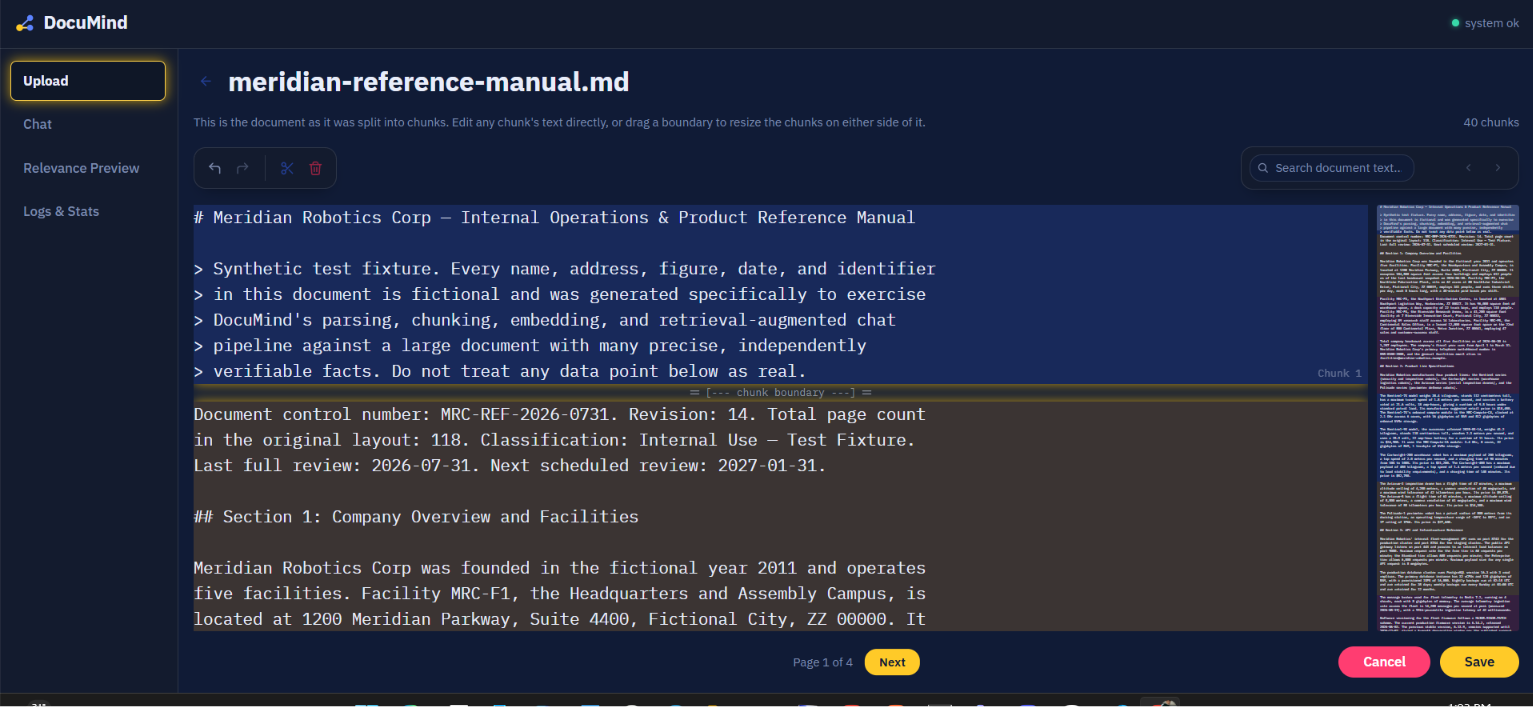
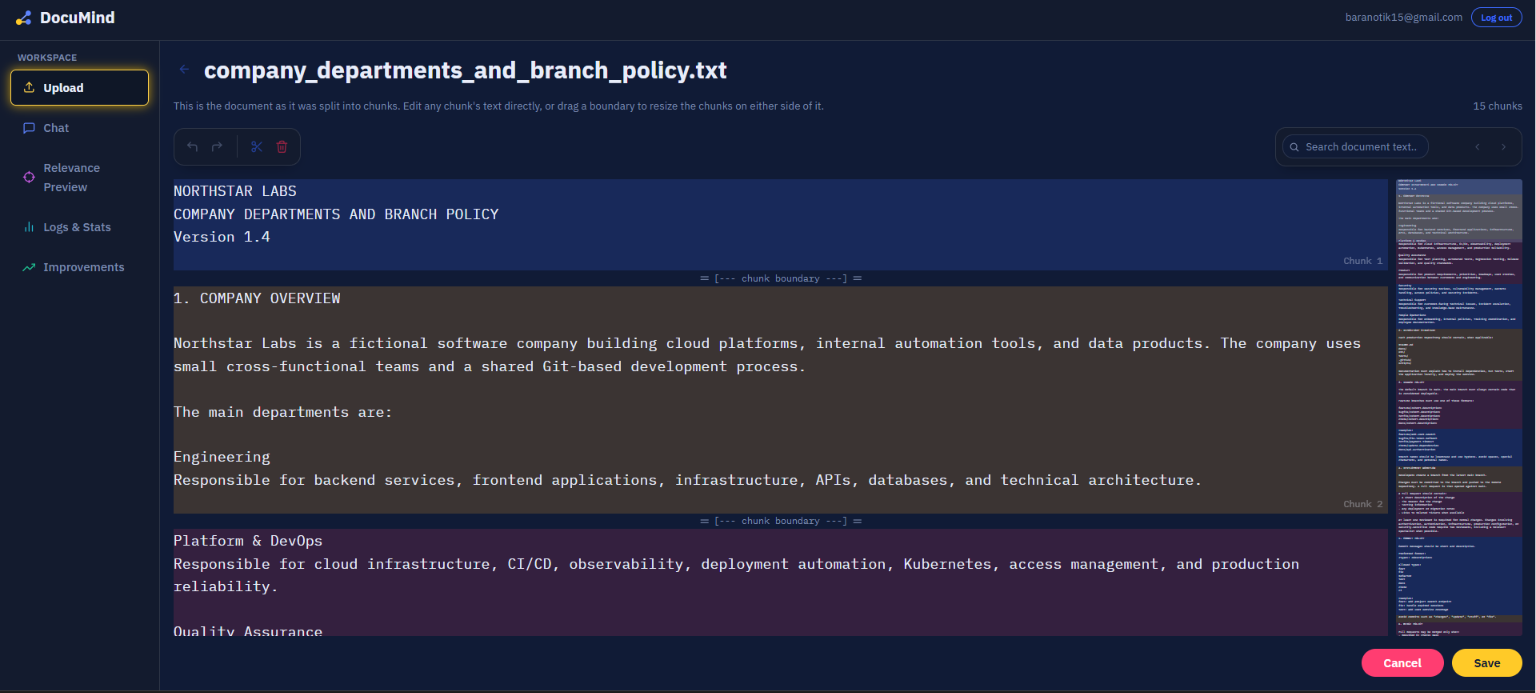
docs(readme): document Improvements/Analysis feature, refresh screenshots
Adds a Features section, documents the Improvements page's dislike/
no-answer tracking and AI-powered gap-analysis + conflict-detection
pipeline (analysis_reports, previously undocumented), lists every
/chat/* and /analysis/* endpoint in the API table, and adds the
analysis/ backend module + Improvements frontend page to the project
structure tree - mirrored in both README.md and README.ru.md.

Also replaces every screenshot under docs/images/ with current ones
(new sidebar, new pages) and adds two new ones for the Improvements
page's Lists and AI Analysis tabs.

diff --git a/README.ru.md b/README.ru.md
@@ -37,6 +37,7 @@
 статистику использования и 3D-визуализацию эмбеддингов чанков.
 
 <p align="center">
+  <a href="#-возможности">Возможности</a> ·
   <a href="#-превью">Превью</a> ·
   <a href="#-стек-технологий">Стек технологий</a> ·
   <a href="#-архитектура">Архитектура</a> ·
@@ -45,6 +46,19 @@
   <a href="#-структура-проекта">Структура проекта</a> ·
   <a href="#-быстрый-старт">Быстрый старт</a>
 </p>
+
+---
+
+<a id="-возможности"></a>
+
+## ✨ Возможности
+
+- **📥 Не просто хранилище, а конвейер** — закиньте PDF, DOCX или Markdown-файл, и он сам распарсится, разобьётся на чанки размером с абзац и заэмбеддится в фоне — без ручной предобработки.
+- **✂ Ничего не уходит в прод вслепую** — каждый чанк можно посмотреть, отредактировать и подвинуть его границу перетаскиванием — ещё до того, как он попадёт в векторный индекс. Плохая разбивка чинится раньше, чем станет плохим ответом.
+- **💬 Ответы на основе ваших же документов** — чат достаёт контекст через pgvector-поиск по тому, что вы реально загрузили, а не придумывает от себя.
+- **🎯 Видно, что найдётся, до того как довериться** — страница Relevance Preview прогоняет тот же самый шаг поиска, что и чат, и показывает, какие именно чанки найдутся на вопрос и с каким скором — без обращения к LLM.
+- **📊 Дашборд, который реально следит за пайплайном** — полный журнал событий, графики использования с привязкой к календарю, живая 3D-карта того, как чанки группируются в пространстве эмбеддингов, и расход OpenAI с точностью до токена.
+- **🔎 Превращает провалы в список задач** — вкладка Improvements незаметно копит каждый дизлайк и каждое "я не знаю" от бота, а затем AI-проход читает эту историю и пишет человеческим языком, чего не хватает в документации, плюс находит места, где два документа прямо противоречат друг другу.
 
 ---
 
@@ -63,6 +77,14 @@
 | Дашборд | Логи |
 |---|---|
 | ![Дашборд](docs/images/dashboard.png) | ![Страница логов](docs/images/logs.png) |
+
+| Просмотр релевантности чанков |
+|---|
+| ![Просмотр релевантности чанков](docs/images/relevance.png) |
+
+| Улучшения — Списки | Улучшения — AI-анализ |
+|---|---|
+| ![Страница улучшений, вкладка Списки](docs/images/improvements-list.png) | ![Страница улучшений, вкладка AI-анализ](docs/images/improvements-analysis.png) |
 
 ---
 
@@ -139,6 +161,16 @@ Celery не настроен. Результаты задач (переходы 
 поиска напрямую (страница "Relevance Preview") для проверки результатов
 семантического поиска без обращения к LLM.
 
+Каждый дизлайкнутый ответ чата и каждый ответ, где модель сообщает, что
+не нашла ответа в документации, отслеживаются (`chat_messages.disliked` /
+`no_answer_found`) и показываются на странице Improvements. Оттуда можно
+запустить анализ (`analysis_reports`, ставится в очередь через тот же
+Celery/Redis-путь, что и загрузка документов): накопленные "провальные"
+вопросы отправляются в LLM для **анализа пробелов документации** на
+понятном языке, а отдельным проходом запускается **поиск противоречий**
+по кандидатным парам чанков (обычно из двух разных документов), чтобы
+найти те, чьё содержимое реально друг другу противоречит.
+
 > **Заметка:** для доступа к админ-панели требуется логин — см. раздел
 > [Авторизация](#-авторизация) ниже. Реализовано через серверные сессии,
 > а не токены; аккаунты заводятся только через CLI-скрипт, публичной
@@ -212,6 +244,17 @@ docker compose exec backend python -m app.auth.cli revoke-user --email you@examp
 | `GET` | `/chat/messages` | История чата |
 | `POST` | `/chat/messages/{id}/dislike` | Переключить дизлайк на сообщении |
 | `POST` | `/chat/top-chunks` | Relevance preview — топ-5 подходящих чанков, без вызова LLM |
+| `GET` | `/chat/dislikes` | Все дизлайкнутые сообщения (query: `range`) |
+| `GET` | `/chat/no-answer-messages` | Все сообщения, где модель не нашла ответа (query: `range`) |
+| `POST` | `/chat/messages/{id}/dismiss-no-answer` | Снять флаг "нет ответа" с сообщения |
+
+**Analysis**
+| Метод | Путь | Описание |
+|---|---|---|
+| `POST` | `/analysis/reports` | Запустить анализ пробелов документации + поиск противоречий |
+| `GET` | `/analysis/reports` | Список всех запусков анализа |
+| `GET` | `/analysis/reports/{id}` | Полная детализация запуска (текст анализа, противоречия, число токенов) |
+| `DELETE` | `/analysis/reports/{id}` | Удалить запуск |
 
 **Dashboard**
 | Метод | Путь | Описание |
@@ -250,7 +293,10 @@ DocuMind/
 │   │   │                  его Celery-задача
 │   │   ├── chunks/        роутер чанков, разбиение, эмбеддинг, векторы,
 │   │   │                  поиск по схожести
-│   │   ├── chat/          сообщения, дизлайк, top-chunks, генерация ответа
+│   │   ├── chat/          сообщения, дизлайк + отслеживание "нет ответа",
+│   │   │                  top-chunks, генерация ответа
+│   │   ├── analysis/      AI-анализ пробелов документации + поиск
+│   │   │                  противоречий между документами, Celery-задача
 │   │   ├── dashboard_events/  CRUD таблицы dashboard_events
 │   │   ├── dashboard/     stats/chunk-graph/openai-spend (без своей
 │   │   │                  таблицы — вынесены отдельно от событий выше)
@@ -263,7 +309,8 @@ DocuMind/
 │   └── tests/
 ├── frontend/
 │   └── src/
-│       ├── pages/         Upload, Chunk review, Chat, Relevance, Dashboard
+│       ├── pages/         Upload, Chunk review, Chat, Relevance, Dashboard,
+│       │                  Improvements
 │       └── api/           ApiClient (реальный HTTP-клиент + офлайн-мок)
 ├── docker-compose.yml
 └── .github/workflows/     CI (backend-ci.yml, frontend-ci.yml)

diff --git a/README.md b/README.md
@@ -37,6 +37,7 @@ shows pipeline event logs, usage stats, and a 3D visualization of chunk
 embeddings.
 
 <p align="center">
+  <a href="#-features">Features</a> ·
   <a href="#-preview">Preview</a> ·
   <a href="#-tech-stack">Tech stack</a> ·
   <a href="#-architecture">Architecture</a> ·
@@ -45,6 +46,19 @@ embeddings.
   <a href="#-project-structure">Project structure</a> ·
   <a href="#-getting-started">Getting started</a>
 </p>
+
+---
+
+<a id="-features"></a>
+
+## ✨ Features
+
+- **📥 Ingest, don't just store** — drop in a PDF, DOCX, or Markdown file and it's parsed, split into paragraph-sized chunks, and embedded automatically in the background — no manual formatting step first.
+- **✂ Nothing ships blind** — every chunk is human-reviewable and editable, with draggable boundaries between chunks, before any of it ever reaches the vector index. A bad split gets fixed before it can become a bad answer.
+- **💬 Answers grounded in your own words** — chat retrieves context straight from the documents you uploaded via pgvector similarity search, not from the model's imagination.
+- **🎯 See the retrieval before you trust it** — the Relevance Preview page runs the same retrieval step the chat uses and shows exactly which chunks a question would pull back and how closely each one scores, no LLM call required.
+- **📊 A dashboard that actually watches the pipeline** — a full event log, calendar-aligned usage charts, a live 3D map of how your chunks cluster in embedding space, and OpenAI spend broken down to the token.
+- **🔎 Turns failure into a to-do list** — the Improvements tab quietly tracks every disliked reply and every "I don't know" the bot gives, then an AI-powered pass reads that history and writes a plain-language gap analysis of what your documentation is missing, plus flags places where two documents flatly contradict each other.
 
 ---
 
@@ -63,6 +77,14 @@ embeddings.
 | Dashboard | Logs |
 |---|---|
 | ![Dashboard](docs/images/dashboard.png) | ![Logs page](docs/images/logs.png) |
+
+| Chunk Relevance Preview |
+|---|
+| ![Chunk Relevance Preview page](docs/images/relevance.png) |
+
+| Improvements — Lists | Improvements — AI Analysis |
+|---|---|
+| ![Improvements page, Lists tab](docs/images/improvements-list.png) | ![Improvements page, Analysis tab](docs/images/improvements-analysis.png) |
 
 ---
 
@@ -136,6 +158,16 @@ organization-level spend/token usage panel.
 A `getTopMatchingChunks`/`top-chunks` endpoint exposes the same retrieval
 step directly (a "Relevance Preview" page) for inspecting semantic search
 results without going through the LLM.
+
+Every disliked chat reply and every reply where the model reports the
+answer isn't in the documentation is tracked (`chat_messages.disliked` /
+`no_answer_found`) and surfaced on the Improvements page. From there, an
+analysis run (`analysis_reports`, dispatched through the same Celery/Redis
+path as ingestion) sends the accumulated failing questions to the LLM for
+a plain-language **documentation gap analysis**, and separately runs a
+**conflict-detection** pass over candidate chunk pairs (typically across
+two different documents) to flag ones whose content actually contradicts
+each other.
 
 > **Note:** the admin panel requires logging in — see
 > [Authentication](#-authentication) below. Session-based, not
@@ -213,6 +245,17 @@ below, grouped by module; all paths are prefixed with `/internal` except
 | `GET` | `/chat/messages` | List chat history |
 | `POST` | `/chat/messages/{id}/dislike` | Toggle dislike on a message |
 | `POST` | `/chat/top-chunks` | Relevance preview - top-5 matching chunks, no LLM call |
+| `GET` | `/chat/dislikes` | Every currently-disliked message (query: `range`) |
+| `GET` | `/chat/no-answer-messages` | Every message where the model reported no answer was found (query: `range`) |
+| `POST` | `/chat/messages/{id}/dismiss-no-answer` | Clear the no-answer flag on a message |
+
+**Analysis**
+| Method | Path | Description |
+|---|---|---|
+| `POST` | `/analysis/reports` | Start a documentation gap-analysis + conflict-detection run |
+| `GET` | `/analysis/reports` | List all analysis runs |
+| `GET` | `/analysis/reports/{id}` | One run's full detail (gap analysis text, conflicts, token count) |
+| `DELETE` | `/analysis/reports/{id}` | Delete a run |
 
 **Dashboard**
 | Method | Path | Description |
@@ -250,7 +293,10 @@ DocuMind/
 │   │   │                  the parse->chunk->embed pipeline, its Celery task
 │   │   ├── chunks/        chunk router, splitting, embedding, vectors,
 │   │   │                  similarity retrieval
-│   │   ├── chat/          messages, dislike, top-chunks, reply generation
+│   │   ├── chat/          messages, dislike + no-answer tracking,
+│   │   │                  top-chunks, reply generation
+│   │   ├── analysis/      AI documentation gap analysis + cross-document
+│   │   │                  conflict detection, its Celery task
 │   │   ├── dashboard_events/  dashboard_events table CRUD
 │   │   ├── dashboard/     stats/chunk-graph/openai-spend (no single
 │   │   │                  owning table - kept separate from the above)
@@ -263,7 +309,8 @@ DocuMind/
 │   └── tests/
 ├── frontend/
 │   └── src/
-│       ├── pages/         Upload, Chunk review, Chat, Relevance, Dashboard
+│       ├── pages/         Upload, Chunk review, Chat, Relevance, Dashboard,
+│       │                  Improvements
 │       └── api/           ApiClient (real HTTP client + offline mock)
 ├── docker-compose.yml
 └── .github/workflows/     CI (backend-ci.yml, frontend-ci.yml)
